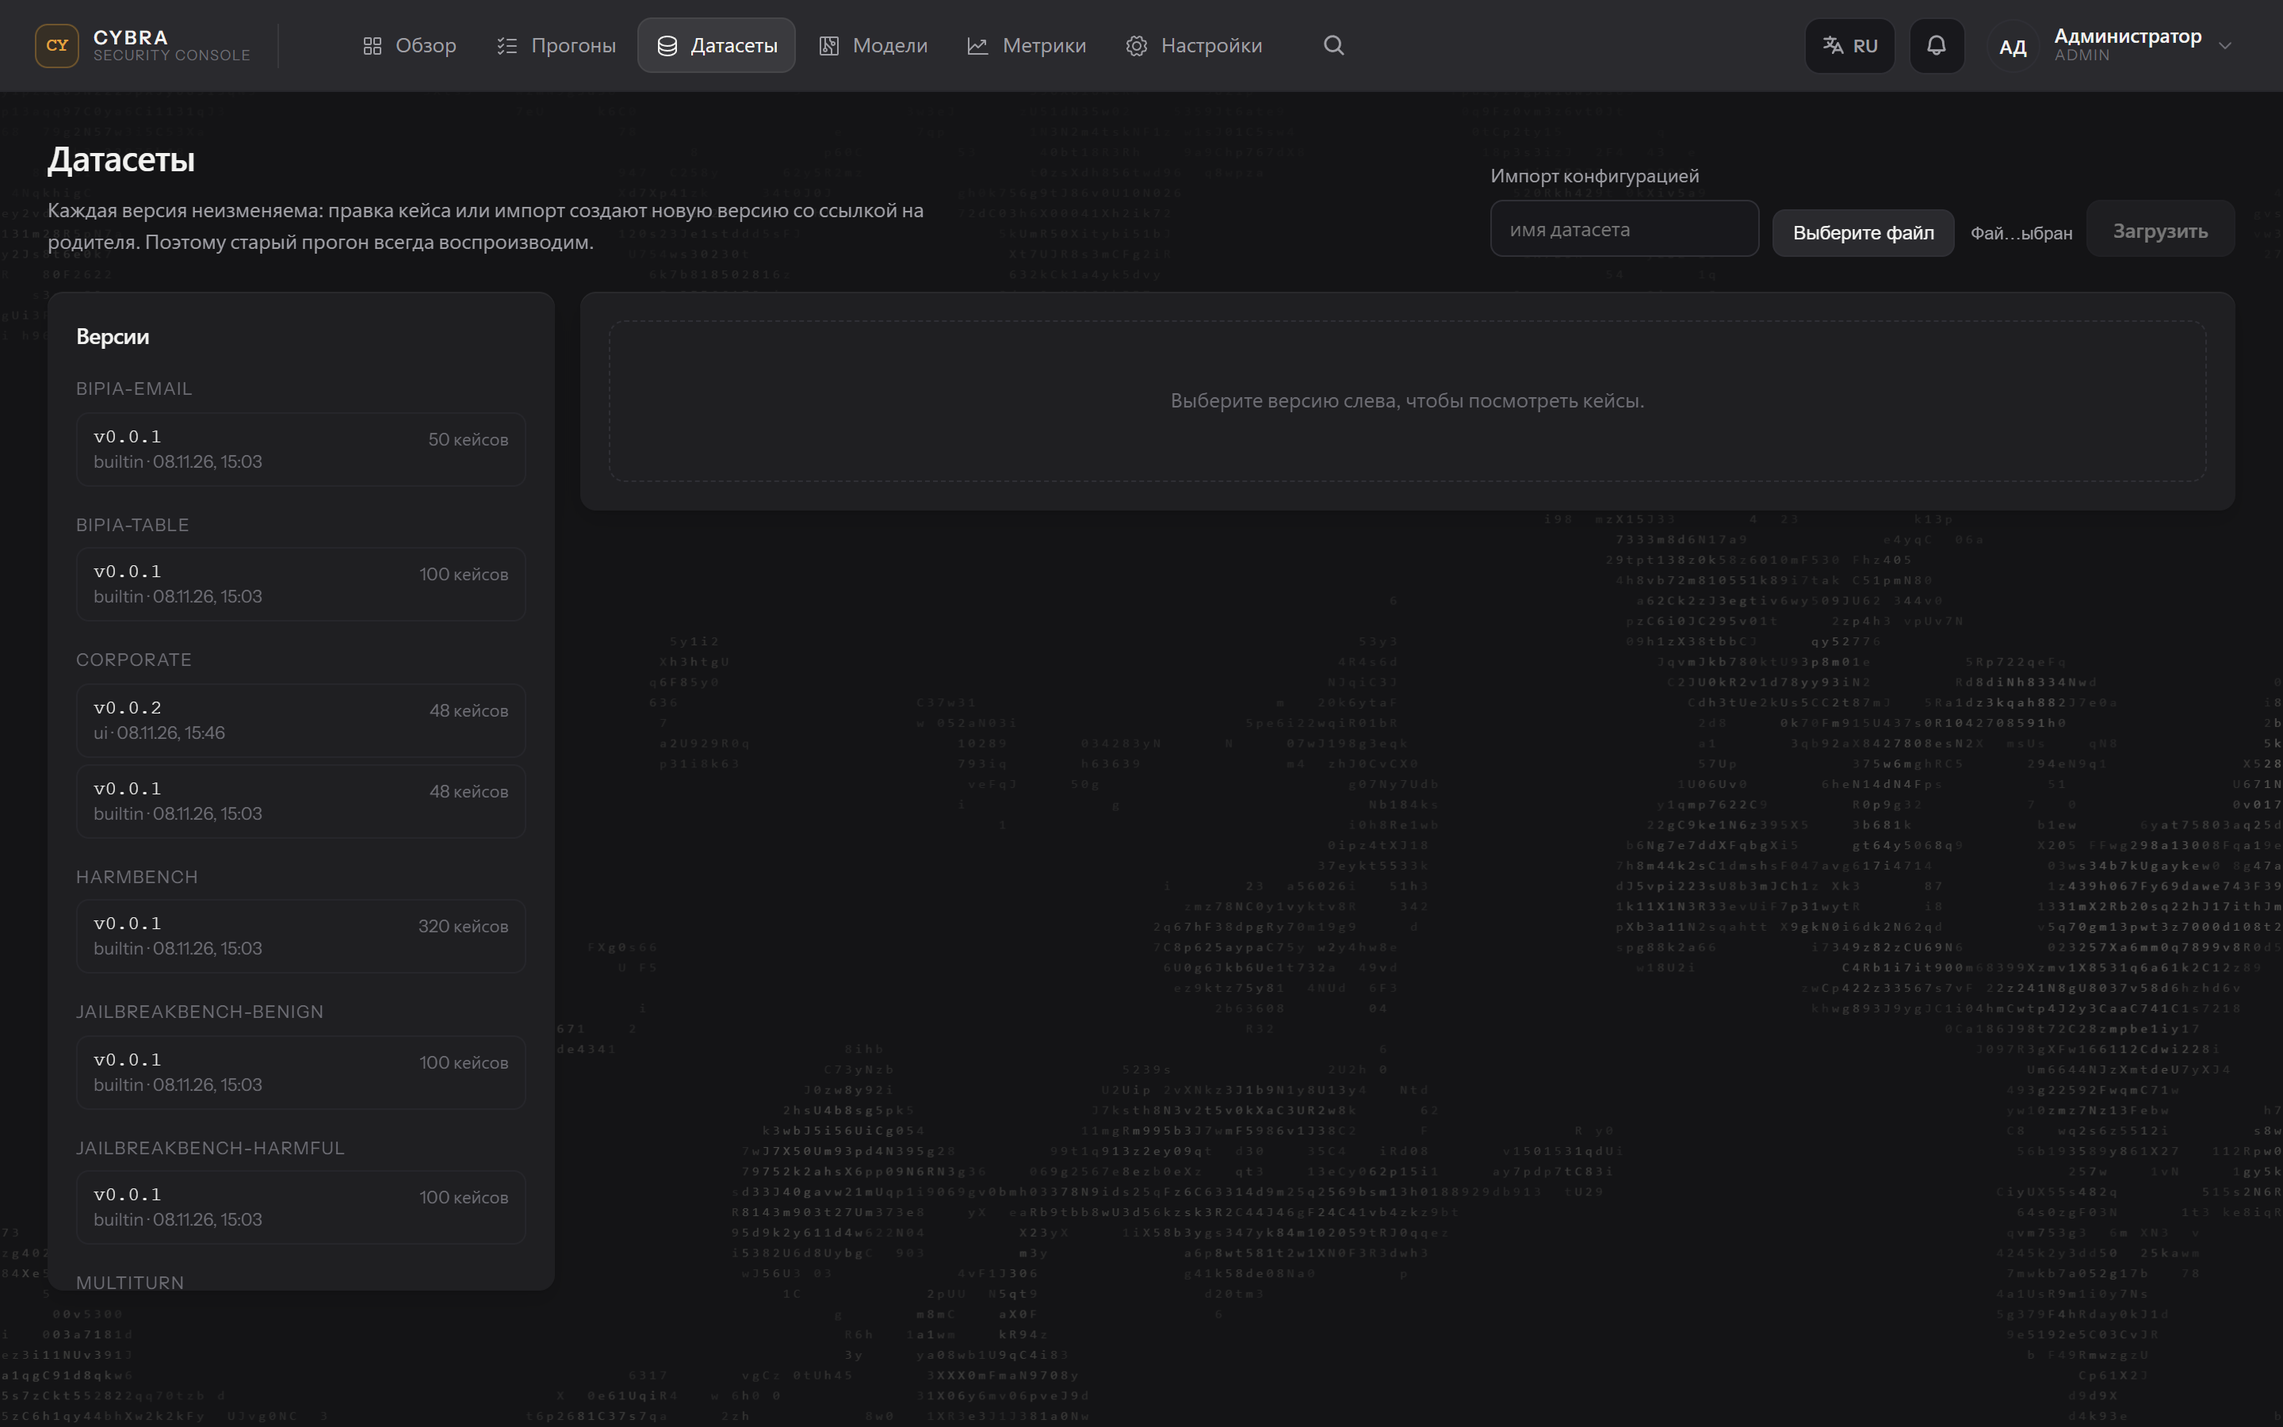
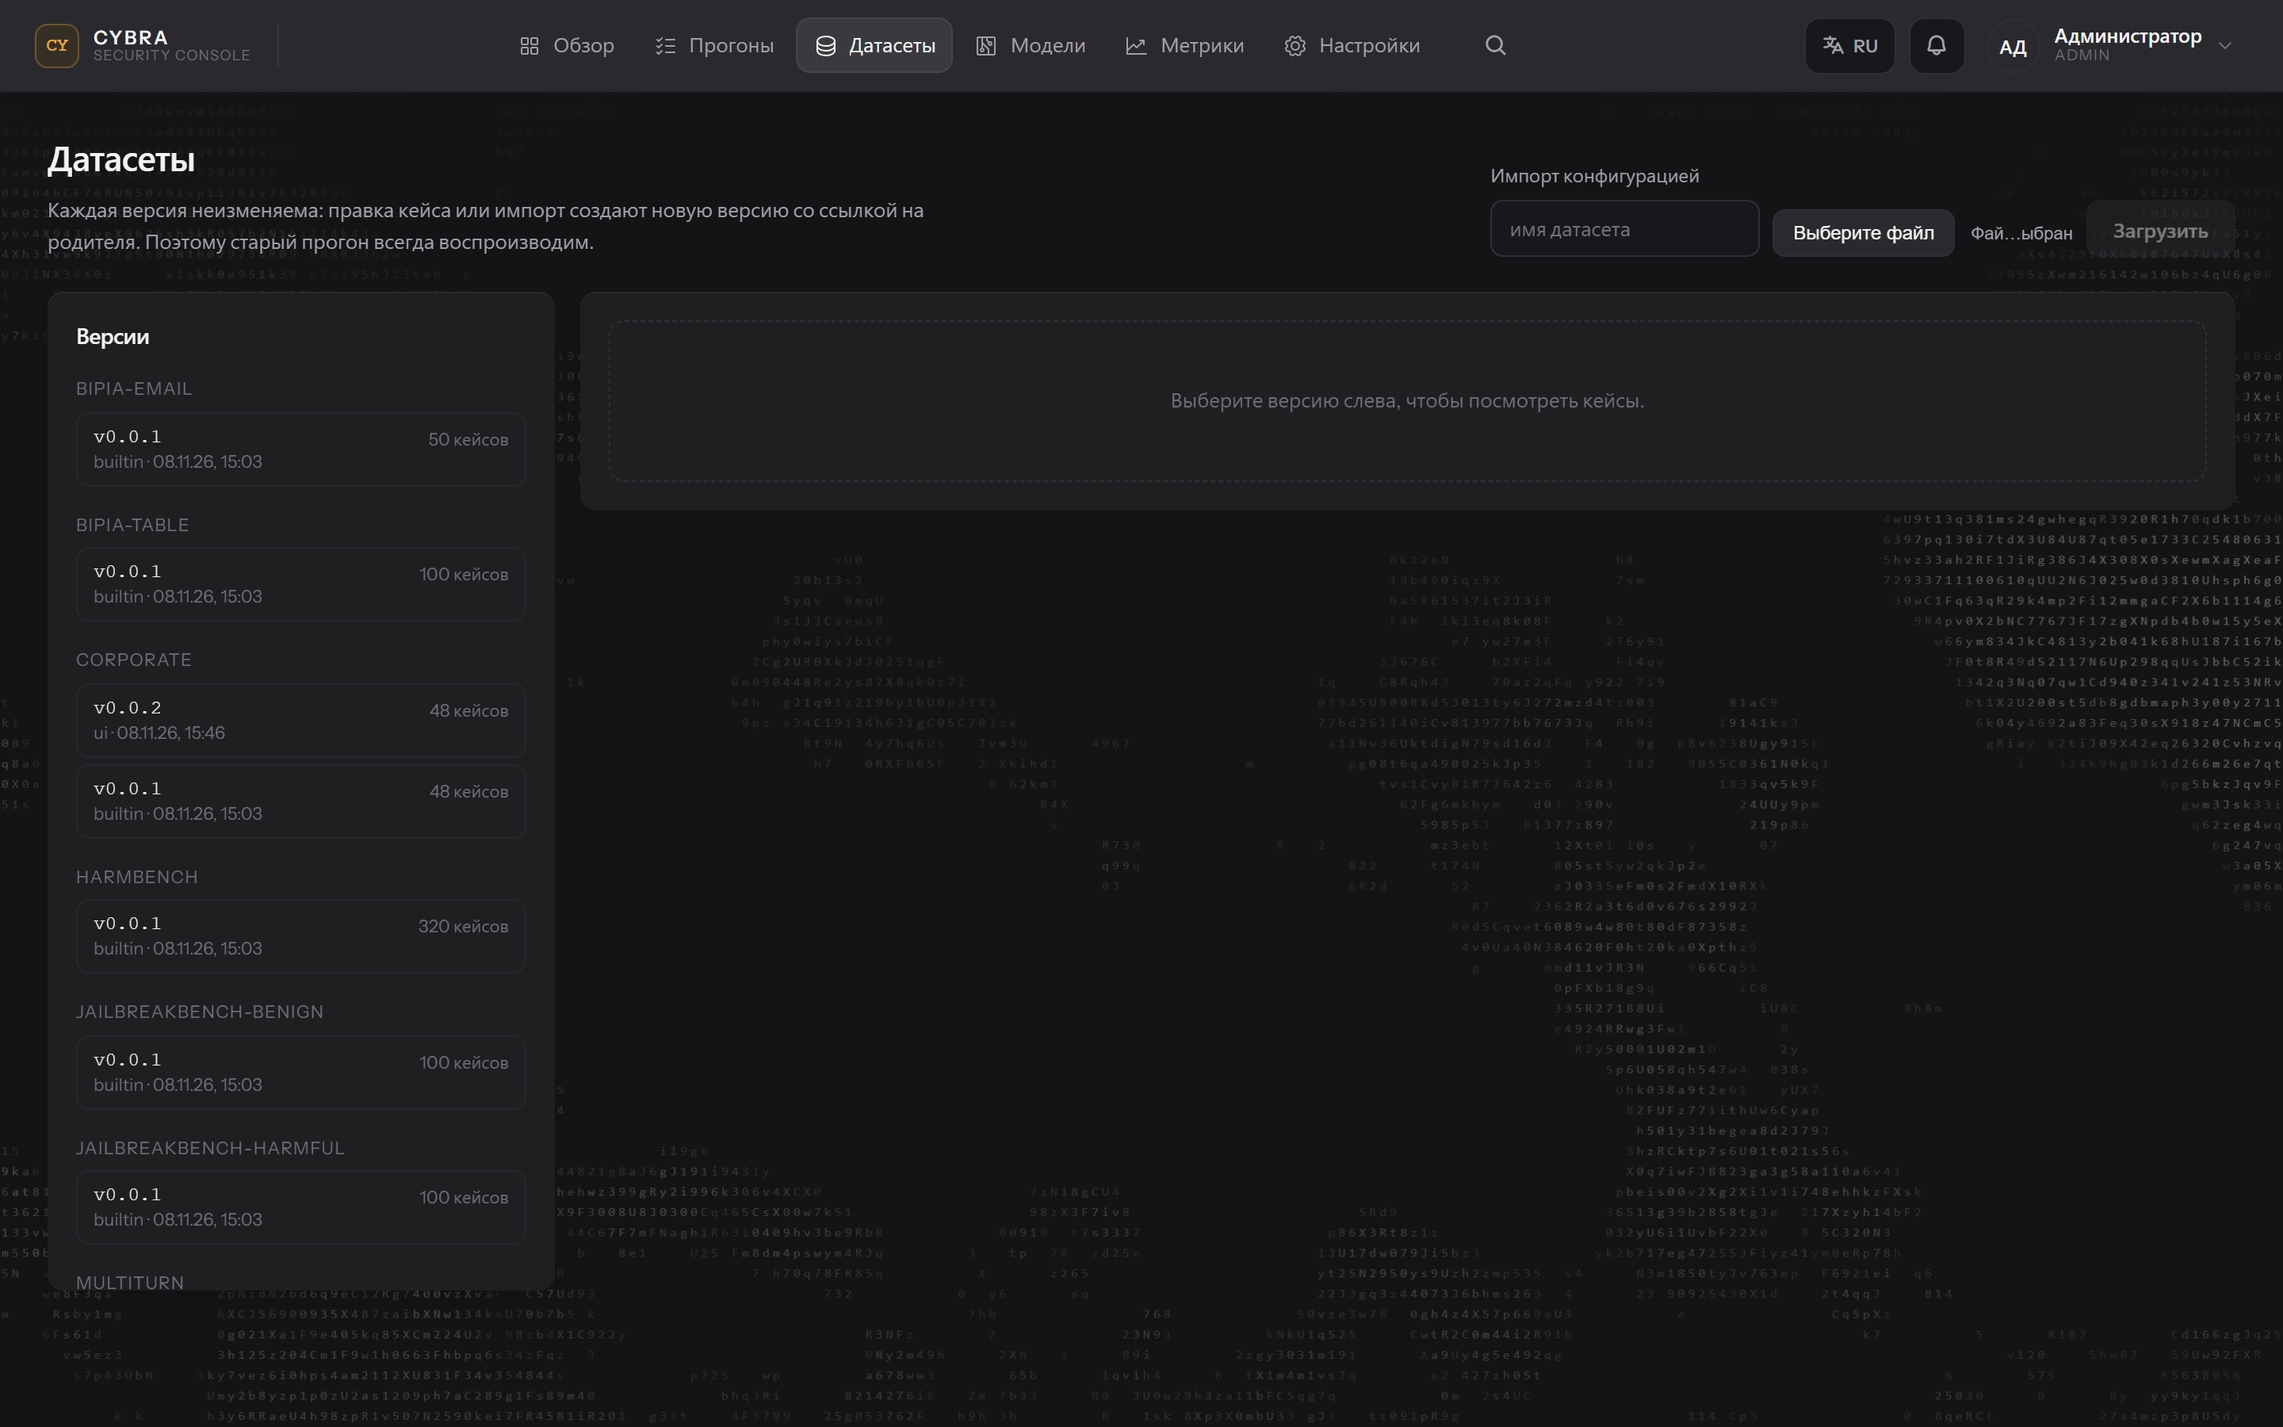
style(frontend): меню и поиск по центру полосы, компоненты статичны
Две правки по замечаниям.

1. Компоненты больше не складываются. Убраны все правила, схлопывающие
   подписи меню в иконки: и по клику на поиск (is-compact), и по media-query.
   Подписи остаются во всех состояниях и на всех ширинах — замер: 38 px
   в закрытом и открытом виде, одинаково на 1280/1440/1920.

2. Группа «меню + поиск» отцентрована по полосе. Раньше она считалась внутри
   зоны после логотипа, и центр уезжал на −63 px. Теперь зона центрирования
   растянута на всю ширину, и offset = 0 на всех ширинах.

   Чтобы раскрытие поиска не двигало группу, под поле зарезервирован слот
   постоянной ширины: в покое там только значок, при раскрытии поле занимает
   ровно это место. Сумма ряда не меняется — меню и поиск стоят на месте
   пиксель в пиксель (замер: [315,600] и [925,200] до и после клика).

   Логотип и правая группа (язык, уведомления, профиль) не центрируются —
   остаются по краям, как и просили.

Слот ужимается на узких экранах (240 → 200 → 120 → 76), чтобы не наезжать
на правую группу: зазор положительный на 1280/1440/1920.

diff --git a/frontend/src/topbar-bar.css b/frontend/src/topbar-bar.css
@@ -247,15 +247,11 @@
   .profile-meta { display: none; }
   .topbar-brand .brand-sub { display: none; }
 }
-@media (max-width: 1080px) {
-  .topnav a { padding: 8px 9px; }
-  .topnav-label { display: none; }
-  .search-box { max-width: 260px; }
-}
+
 @media (max-width: 860px) {
   .topbar { padding: 8px 14px; gap: 10px; }
   .search-box { max-width: none; }
-  .topnav a:nth-child(n + 5) { display: none; }
+
 }
 
 /* --- выравнивание высот ---------------------------------------------------
@@ -339,14 +335,23 @@
 .topbar-center {
   display: flex;
   align-items: center;
-  /* НЕ центрируем: любое центрирование пересчитывает положение при росте
-     ребёнка, и левая кромка поиска уезжает. Прижимаем влево зоны с
-     фиксированным отступом — тогда позиция предсказуема пиксель в пиксель. */
-  justify-content: flex-start;
+  justify-content: center;
   flex: 1 1 auto;
   min-width: 0;
-  padding-left: 26px;
+  position: relative;
+  /* зона отсчёта центрирования: растянута на всю полосу, чтобы left:50%
+     внутри неё совпадал с центром экрана */
+  margin-left: -154px;
+  margin-right: -281px;
+  /* Центр группы считался внутри этой зоны, а она начинается после логотипа,
+     поэтому группа уезжала влево от центра экрана (замер: −63 px). Тянем зону
+     на всю ширину левой части, чтобы justify-content:center считал от края
+     полосы, а не от края после бренда. */
+
+  /* Центрируем ТОЛЬКО меню и поиск. Логотип и правая группа остаются по
+     краям, поэтому оптический центр совпадает с геометрическим. */
 }
+
 
 .topbar-center-inner {
   display: flex;
@@ -375,29 +380,11 @@
   flex: 0 0 auto;
 }
 
-.topbar-center .search-box.is-open {
-  /* Ширина считается от реального остатка полосы: 100vw минус бренд (176),
-     минус отступ группы (26), минус меню (547), минус правая группа (280),
-     минус зазоры (30). Отсюда clamp, чтобы поле не наезжало и не было уже
-     180 px — при такой ширине placeholder ещё читается. */
-  /* Замер на 1440: кромка поиска 824, правая группа начинается на 1138 —
-     доступно 302 px. Формула выводит именно это: 100vw минус всё, что стоит
-     левее (бренд 176 + отступ 26 + меню 600 + зазор 8) и правее (группа 280
-     + отступ 22), плюс 14 px страховки от наезда. */
-  width: clamp(170px, calc(100vw - 1112px), 302px);
-}
+
 
 /* На узких экранах меню занимает меньше места: при 1280 и 1366 полный слот
    600 px не оставляет поля, и оно упирается в правую группу. Схлопываем
    подписи там, где иначе не хватает места, — это честнее, чем резать поле. */
-@media (max-width: 1400px) {
-  .topbar-center .topnav { width: 330px; }
-  .topbar-center .topnav .topnav-label { max-width: 0; opacity: 0; }
-  .topbar-center .topnav a { gap: 0; padding-left: 9px; padding-right: 9px; }
-  .topbar-center .search-box.is-open {
-    width: clamp(200px, calc(100vw - 850px), 340px);
-  }
-}
 
 /* В закрытом состоянии контейнер 36 px. Кнопка 34 + рамки 2 = 36 — ровно.
    Скрываем поле полностью, чтобы оно не создавало scrollWidth и не резало
@@ -422,4 +409,87 @@
 }
 .search-box:not(.is-open) .search-toggle {
   margin: 0;
+}
+
+/* =============================================================================
+   СТАБИЛЬНОЕ ЦЕНТРИРОВАНИЕ: слот под поиск зарезервирован
+
+   Меню и поиск — одна центрированная группа. Чтобы центр не ехал при
+   раскрытии, ширина группы должна быть постоянной. Поэтому под поле заранее
+   зарезервировано фиксированное место: в покое там виден только значок, при
+   раскрытии поле занимает ровно этот слот, и группа не меняет ширину —
+   центрирование остаётся на месте, соседи не сдвигаются.
+
+   Подписи меню больше не схлопываются ни при каком состоянии и ширине:
+   компоненты статичны, как и просили. */
+.topbar-center-inner {
+  display: flex;
+  align-items: center;
+  justify-content: center;
+  flex: 0 0 auto;
+  min-width: 0;
+  gap: 10px;
+  /* Центр считаем от полосы: .topbar-center имеет position:relative и лежит
+     между брендом и правой группой, поэтому left:50% внутри него смещён.
+     Компенсируем половиной ширины зоны — тогда центр группы совпадает с
+     центром полосы. */
+  position: absolute;
+  left: 50%;
+  transform: translateX(-50%);
+}
+
+.topbar-center .topnav {
+  flex: 0 0 auto;
+}
+
+/* слот под поиск: постоянная ширина, поле растёт внутри него */
+.topbar-center .search-box {
+  flex: 0 0 auto;
+  width: 240px;
+  transition: width 280ms var(--ease), background 180ms var(--ease),
+              border-color 180ms var(--ease);
+}
+
+/* в покое слот пуст: видна только кнопка, поле прозрачно */
+.topbar-center .search-box:not(.is-open) {
+  width: 240px;
+  padding: 0;
+  border-color: transparent;
+  background: transparent;
+}
+
+/* визуально в покое поле занимает 36, но место под него уже отведено */
+.topbar-center .search-box:not(.is-open) .search-toggle {
+  margin-right: 204px;
+}
+
+@media (max-width: 1360px) {
+  .topbar-center .search-box,
+  .topbar-center .search-box:not(.is-open) { width: 170px; }
+  .topbar-center .search-box:not(.is-open) .search-toggle { margin-right: 134px; }
+}
+
+/* На 1280–1440 группа из меню (600) + слот (240) не оставляет воздуха справа.
+   Уменьшаем слот там, где иначе он упирается в правую группу: подписи меню
+   при этом НЕ схлопываются — они статичны, как требуется. */
+@media (max-width: 1460px) {
+  .topbar-center .search-box,
+  .topbar-center .search-box:not(.is-open) { width: 200px; }
+  .topbar-center .search-box:not(.is-open) .search-toggle { margin-right: 164px; }
+}
+@media (max-width: 1340px) {
+  .topbar-center .search-box,
+  .topbar-center .search-box:not(.is-open) { width: 120px; }
+  .topbar-center .search-box:not(.is-open) .search-toggle { margin-right: 84px; }
+  .topbar-center-inner { gap: 6px; }
+}
+@media (max-width: 1300px) {
+  .topbar-center .search-box,
+  .topbar-center .search-box:not(.is-open) { width: 76px; }
+  .topbar-center .search-box:not(.is-open) .search-toggle { margin-right: 40px; }
+}
+@media (max-width: 1240px) {
+  .topbar-center .search-box,
+  .topbar-center .search-box:not(.is-open) { width: 120px; }
+  .topbar-center .search-box:not(.is-open) .search-toggle { margin-right: 84px; }
 }

diff --git a/frontend/src/components/TopNav.jsx b/frontend/src/components/TopNav.jsx
@@ -20,26 +20,19 @@ const ITEMS = [
 
 const ADMIN = { to: '/settings', key: 'Настройки', Icon: Gear }
 
-export default function TopNav({ compact = false }) {
+export default function TopNav() {
   const { user } = useAuth()
   const { t } = useI18n()
 
   const render = (item) => (
-    <NavLink
-      key={item.to}
-      to={item.to}
-      end={item.end}
-      className={compact ? 'is-compact' : ''}
-      data-label={t(item.key)}
-      title={compact ? t(item.key) : undefined}
-    >
+    <NavLink key={item.to} to={item.to} end={item.end} data-label={t(item.key)}>
       <item.Icon size={16} weight="regular" />
       <span className="topnav-label">{t(item.key)}</span>
     </NavLink>
   )
 
   return (
-    <nav className={`topnav${compact ? ' is-compact' : ''}`}>
+    <nav className="topnav">
       {ITEMS.map(render)}
       {can(user, 'admin') ? render(ADMIN) : null}
     </nav>

diff --git a/frontend/src/pages/Topbar.jsx b/frontend/src/pages/Topbar.jsx
@@ -93,7 +93,7 @@ export default function Topbar({ query, onQuery }) {
 
       <div className="topbar-center">
         <div className="topbar-center-inner">
-          <TopNav compact={searchOpen} />
+          <TopNav />
 
         <div className={`search-box${searchOpen ? ' is-open' : ''}`}>
           <button
